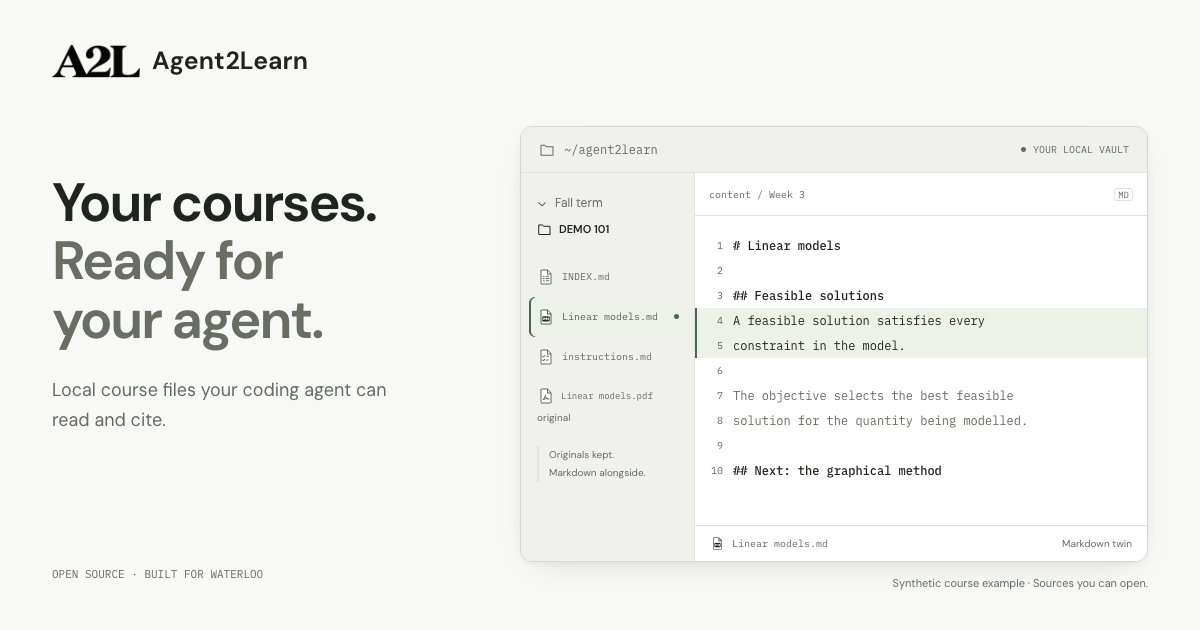
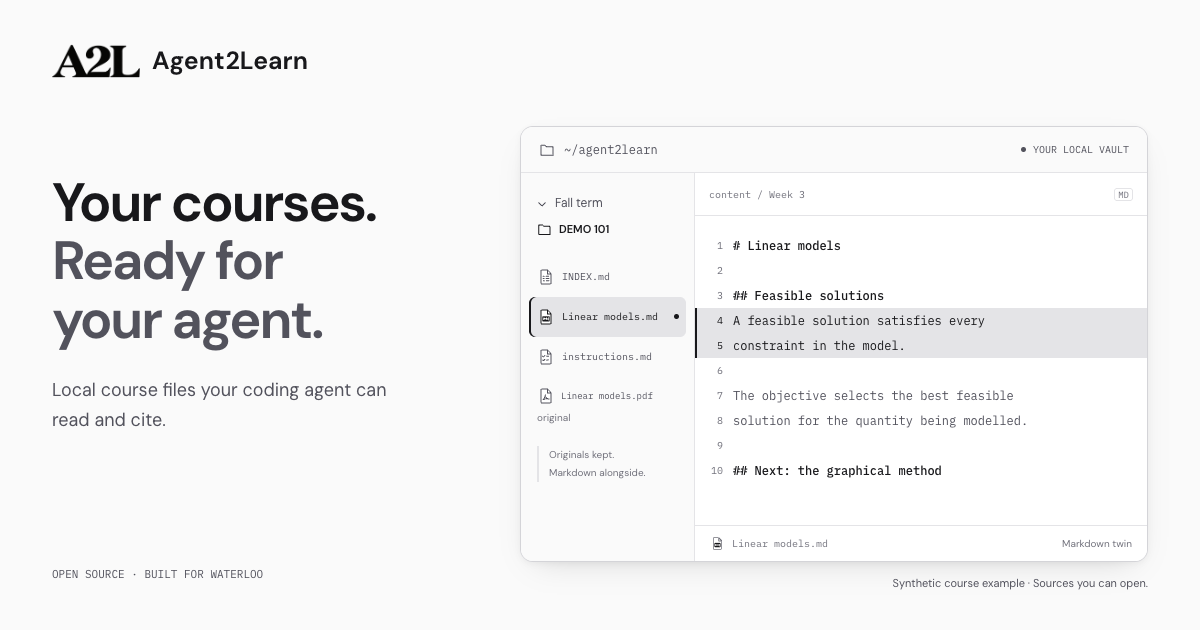
Restore original monochrome website palette

Changed region(s): [[0.0308, 0.4825, 0.2775, 0.573], [0.0308, 0.3619, 0.2467, 0.4524], [0.4317, 0.4825, 0.555, 0.5127]]

diff --git a/frontend/src/styles/docs.css b/frontend/src/styles/docs.css
@@ -1,38 +1,54 @@
 @import './shared.css';
 
-:root {
+:root,
+:root[data-theme='dark'] {
   --sl-font: var(--font-sans);
   --sl-font-mono: var(--font-mono);
   --sl-content-width: 42rem;
   --sl-sidebar-width: 17rem;
-  --sl-color-accent-low: var(--accent-soft);
-  --sl-color-accent: var(--accent);
-  --sl-color-accent-high: #c9d8c3;
-  --sl-color-white: var(--ink);
-  --sl-color-gray-1: #dbe1d6;
-  --sl-color-gray-2: #bdc5b7;
-  --sl-color-gray-3: #a2aaa0;
-  --sl-color-gray-4: #63705d;
-  --sl-color-gray-5: #343a33;
-  --sl-color-gray-6: #1c1f1c;
-  --sl-color-black: var(--canvas);
+  --sl-color-accent-low: var(--color-zinc-800);
+  --sl-color-accent: var(--color-zinc-300);
+  --sl-color-accent-high: var(--color-zinc-100);
+  --sl-color-white: var(--color-zinc-50);
+  --sl-color-gray-1: var(--color-zinc-200);
+  --sl-color-gray-2: var(--color-zinc-300);
+  --sl-color-gray-3: var(--color-zinc-400);
+  --sl-color-gray-4: var(--color-zinc-600);
+  --sl-color-gray-5: var(--color-zinc-800);
+  --sl-color-gray-6: var(--color-zinc-900);
+  --sl-color-black: var(--color-zinc-950);
   --sl-color-bg: var(--paper);
   --sl-color-bg-nav: var(--paper);
   --sl-color-bg-sidebar: var(--canvas);
   --sl-color-hairline-light: var(--line);
   --sl-color-hairline: var(--line);
+  --paper: var(--color-zinc-950);
+  --surface: var(--color-zinc-900);
+  --ink: var(--color-zinc-100);
+  --muted: var(--color-zinc-300);
+  --subtle: var(--color-zinc-400);
+  --line: var(--color-zinc-800);
 }
 
 :root[data-theme='light'] {
-  --sl-color-accent-high: #364b3c;
-  --sl-color-gray-1: #33392f;
-  --sl-color-gray-2: #4f5849;
-  --sl-color-gray-3: #656a63;
-  --sl-color-gray-4: #959e8e;
-  --sl-color-gray-5: #e1e4dd;
-  --sl-color-gray-6: #f0f1ed;
-  --sl-color-gray-7: #f8f8f6;
+  --sl-color-accent-low: var(--color-zinc-100);
+  --sl-color-accent: var(--color-zinc-700);
+  --sl-color-accent-high: var(--color-zinc-900);
+  --sl-color-white: var(--color-zinc-900);
+  --sl-color-gray-1: var(--color-zinc-800);
+  --sl-color-gray-2: var(--color-zinc-700);
+  --sl-color-gray-3: var(--color-zinc-500);
+  --sl-color-gray-4: var(--color-zinc-400);
+  --sl-color-gray-5: var(--color-zinc-200);
+  --sl-color-gray-6: var(--color-zinc-100);
+  --sl-color-gray-7: var(--color-zinc-50);
   --sl-color-black: var(--paper);
+  --paper: var(--color-white);
+  --surface: var(--color-zinc-50);
+  --ink: var(--color-zinc-900);
+  --muted: var(--color-zinc-600);
+  --subtle: var(--color-zinc-500);
+  --line: var(--color-zinc-200);
 }
 
 body {
@@ -107,8 +123,8 @@ h1#_top {
   font-size: 13px;
 }
 .sidebar-content a[aria-current='page'] {
-  background: var(--accent-soft);
-  color: var(--accent);
+  background: var(--sl-color-gray-6);
+  color: var(--ink);
   font-weight: 600;
   box-shadow: inset 2px 0 var(--accent);
 }

diff --git a/frontend/src/styles/home.css b/frontend/src/styles/home.css
@@ -5,14 +5,14 @@
 }
 :root {
   color-scheme: light;
-  --hero-secondary: #686e64;
-  --border-emphasis: #d4d9d0;
-  --vault-shadow: 0 12px 32px -16px #20271e30, 0 2px 6px #20271e0a;
+  --hero-secondary: var(--color-zinc-600);
+  --border-emphasis: var(--color-zinc-300);
+  --vault-shadow: 0 12px 32px -16px #00000030, 0 2px 6px #0000000a;
 }
 :root[data-theme='dark'] {
   color-scheme: dark;
-  --hero-secondary: #b9c1b3;
-  --border-emphasis: #414a3c;
+  --hero-secondary: var(--color-zinc-300);
+  --border-emphasis: var(--color-zinc-700);
   --vault-shadow: 0 16px 40px -16px #00000080, 0 2px 6px #00000030;
 }
 html {
@@ -175,7 +175,7 @@ h3 {
   white-space: nowrap;
 }
 .hero-period {
-  color: inherit;
+  color: var(--ink);
 }
 .hero-description {
   max-width: 565px;
@@ -666,7 +666,7 @@ a2l-vault[data-cited] .citation-link {
   border: 1px solid var(--border-emphasis);
   border-radius: 7px;
   background: var(--paper);
-  box-shadow: 0 3px 5px -4px #20271e32;
+  box-shadow: 0 3px 5px -4px #00000032;
 }
 .story-document > span {
   width: 100%;
@@ -696,7 +696,7 @@ a2l-vault[data-cited] .citation-link {
   border: 1px solid var(--line);
   border-radius: 8px;
   background: var(--paper);
-  box-shadow: 0 3px 5px -4px #20271e32;
+  box-shadow: 0 3px 5px -4px #00000032;
 }
 .story-quote-text {
   display: block;
@@ -737,7 +737,7 @@ a2l-vault[data-cited] .citation-link {
   right: 0;
   bottom: 0;
   border-color: var(--border-emphasis);
-  box-shadow: 0 4px 7px -4px #20271e30;
+  box-shadow: 0 4px 7px -4px #00000030;
 }
 .story-revision i {
   display: block;
@@ -768,26 +768,26 @@ a2l-vault[data-cited] .citation-link {
   background: currentColor;
 }
 .setup-section {
-  --ink: #e9ece7;
-  --muted: #b8c0b4;
-  --subtle: #a7b1a3;
-  --line: #424b3f;
-  --paper: #282e28;
-  --surface: #1b201b;
-  --accent: #c1cebc;
-  --accent-soft: #303e2d;
-  --accent-line: #5b6b54;
-  --button-bg: #e1e6dc;
-  --button-hover: #ffffff;
-  --button-ink: #20241e;
+  --ink: var(--color-zinc-100);
+  --muted: var(--color-zinc-300);
+  --subtle: var(--color-zinc-400);
+  --line: var(--color-zinc-700);
+  --paper: var(--color-zinc-900);
+  --surface: var(--color-zinc-950);
+  --accent: var(--ink);
+  --accent-soft: var(--color-zinc-800);
+  --accent-line: var(--color-zinc-600);
+  --button-bg: var(--color-zinc-100);
+  --button-hover: var(--color-white);
+  --button-ink: var(--color-zinc-900);
   display: grid;
   grid-template-columns: 1fr 1fr;
   gap: 48px;
   align-items: start;
   padding: 38px 40px;
-  border: 1px solid #394234;
+  border: 1px solid var(--color-zinc-700);
   border-radius: 16px;
-  background: #202520;
+  background: var(--color-zinc-900);
   color: var(--ink);
   scroll-margin-top: 30px;
 }

diff --git a/frontend/src/styles/shared.css b/frontend/src/styles/shared.css
@@ -9,35 +9,35 @@
 :root {
   --font-sans: 'DM Sans Variable', sans-serif;
   --font-mono: 'IBM Plex Mono', monospace;
-  --canvas: #f8f8f6;
-  --ink: #20231f;
-  --muted: #656a63;
-  --subtle: #636961;
-  --line: #e1e4dd;
-  --paper: #ffffff;
-  --surface: #f0f1ed;
-  --accent: #4c6453;
-  --accent-soft: #edf2e9;
-  --accent-line: #ccd7c7;
-  --button-bg: #282c27;
-  --button-hover: #3a4038;
-  --button-ink: #ffffff;
+  --canvas: var(--color-zinc-50);
+  --ink: var(--color-zinc-900);
+  --muted: var(--color-zinc-600);
+  --subtle: var(--color-zinc-500);
+  --line: var(--color-zinc-200);
+  --paper: var(--color-white);
+  --surface: var(--color-zinc-50);
+  --accent: var(--ink);
+  --accent-soft: var(--color-zinc-200);
+  --accent-line: var(--color-zinc-300);
+  --button-bg: var(--color-zinc-900);
+  --button-hover: var(--color-zinc-800);
+  --button-ink: var(--color-white);
 }
 
 :root[data-theme='dark'] {
-  --canvas: #121412;
-  --ink: #e9ece7;
-  --muted: #b2b8b0;
-  --subtle: #a2aaa0;
-  --line: #343a33;
-  --paper: #1c1f1c;
-  --surface: #171a17;
-  --accent: #adc0a8;
-  --accent-soft: #293328;
-  --accent-line: #485945;
-  --button-bg: #e1e6dc;
-  --button-hover: #ffffff;
-  --button-ink: #20241e;
+  --canvas: var(--color-zinc-950);
+  --ink: var(--color-zinc-100);
+  --muted: var(--color-zinc-400);
+  --subtle: var(--color-zinc-400);
+  --line: var(--color-zinc-800);
+  --paper: var(--color-zinc-900);
+  --surface: var(--color-zinc-950);
+  --accent: var(--ink);
+  --accent-soft: var(--color-zinc-700);
+  --accent-line: var(--color-zinc-600);
+  --button-bg: var(--color-zinc-100);
+  --button-hover: var(--color-white);
+  --button-ink: var(--color-zinc-900);
 }
 
 h1,

diff --git a/frontend/scripts/render-social-card.js b/frontend/scripts/render-social-card.js
@@ -15,7 +15,7 @@ async function renderSocialCard(page) {
         <link rel="icon" href="${origin}/favicon.svg" type="image/svg+xml">
         ${styles.map((href) => `<link rel="stylesheet" href="${href}">`).join('')}
         <style>
-          body { margin: 0; background: #f8f8f6; }
+          body { margin: 0; background: #fafafa; }
           .social-card {
             width: 1200px; height: 630px; position: relative; overflow: hidden;
             background: var(--canvas); color: var(--ink);

diff --git a/frontend/README.md b/frontend/README.md
@@ -46,7 +46,7 @@ Pagefind indexes the production HTML during the build. Search is entirely local 
 | `src/lib/social.ts`                 | Shared Open Graph and large-image card metadata for the homepage and docs.          |
 | `scripts/verify-build.mjs`          | Internal link, anchor, asset, and agent-export checks over the built output.        |
 
-The site uses Astro, Starlight, shared paper/charcoal/evergreen color tokens, DM Sans, and IBM Plex Mono. Dependencies are pinned in `package-lock.json`. Fonts are served locally; their license notices are included under `public/licenses/`. No analytics, remote font calls, or background network integrations are added.
+The site uses Astro, Starlight, Tailwind's neutral zinc color tokens, DM Sans, and IBM Plex Mono. Dependencies are pinned in `package-lock.json`. Fonts are served locally; their license notices are included under `public/licenses/`. No analytics, remote font calls, or background network integrations are added.
 
 The logo is the approved, image-generated editorial **A2L** wordmark from the launch film. The master is preserved byte-for-byte; the export script trims transparent padding and resizes it for web use without redrawing the lettering. The SVG files embed raster artwork and are not claimed to be vector masters. Interface and feature icons remain editable vectors and are not brand marks.
 
@@ -60,7 +60,7 @@ The landing page starts with the system preference and has an explicit light/dar
 
 `ThemeColor.astro` keeps the browser's toolbar colour aligned with each page's header. It follows the resolved theme on both the homepage and documentation, including saved choices and automatic system changes. `DocsHead.astro` adds it alongside Starlight's default head metadata.
 
-The layout uses white paper, soft neutral gray surfaces, and charcoal backgrounds. Primary actions use charcoal or soft white. A restrained evergreen accent identifies source citations, focus rings, links, and the current documentation page. The palette lives in `shared.css`; dark mode uses a lighter sage accent chosen for readable contrast. The charcoal agent section keeps a consistent treatment in both themes.
+The layout uses black, white, and layered zinc grays. Primary actions, source citations, focus rings, links, and the current documentation page use the same monochrome palette. The shared tokens live in `shared.css`, with light and dark variants. The charcoal agent section keeps a consistent treatment in both themes.
 
 File selection uses native radio inputs, prompt and mobile vault expansion use native disclosure controls, and the documentation uses Starlight's accessible search, tabs, navigation, and theme selector. Scrollable code examples have distinct accessible names. Copy failures show a local recovery message. Reduced-motion preferences are respected.
 
